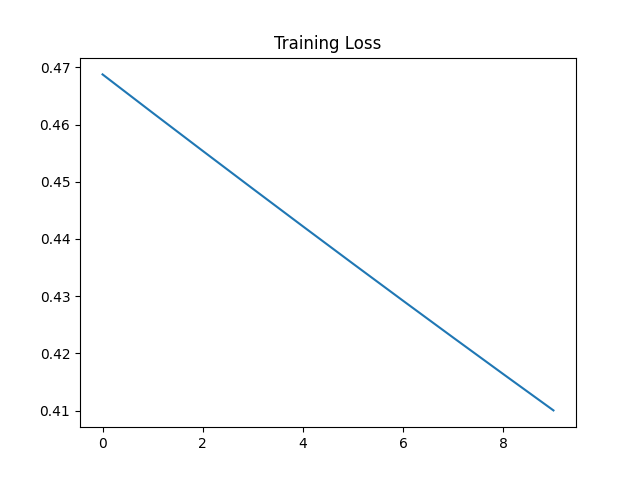
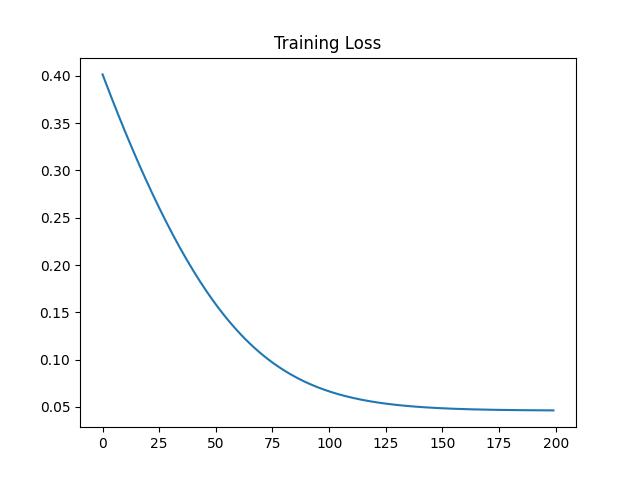
bookeeping works! Test Graphs?

diff --git a/modules/train.py b/modules/train.py
@@ -20,9 +20,6 @@ DEVICE = jax.devices("gpu" if jax.lib.xla_bridge.get_backend().platform == "gpu"
 
 
 def train_model(dataset, params, model, run, path, mngr): 
-
-    print("Before training")
-    print(params)   
     
     epochs = run['epochs']
     batch_size=run['batch_size']
@@ -73,15 +70,10 @@ def train_model(dataset, params, model, run, path, mngr):
         
         loss_train[epoch] = epoch_loss
 
-        if epoch_loss < min_loss:
-            min_loss = epoch_loss
-            ckpt = {'state' : state}
-            mngr.save(epoch, ckpt)
+        
 
-    restored_ckpt = mngr.restore(mngr.latest_step())
-    restored_params = restored_ckpt["state"]["params"]
-    print("Inside train")
-    print(restored_params)
+    ckpt = {'state' : state}
+    mngr.save(epoch, ckpt)
     plt.plot(np.arange(epochs), loss_train)
     plt.title("Training Loss")
     plt.savefig(f"figures/{path}/training_loss.png")

diff --git a/experiment.py b/experiment.py
@@ -50,12 +50,11 @@ def run_experiment(run):
         print("Training from scratch...")
         params, mngr = init_params(model, train_dataset, path)
         
-
+    # Train from starting of params
     train_model(train_dataset, params, model, run, path, mngr)
 
     # Validation
     validate(run, model, path, test_dataset, mngr)
-
 
     record_run_from_file(run, 'run_report.xlsx', 'run_report.txt')
 
@@ -65,7 +64,7 @@ if __name__ == '__main__':
     # Dictionaries and other stuff
     'save_dict': False,
     'dict': 'runs_report.xlsx',
-    'from_scratch' : True,
+    'from_scratch' : False,
     'show_res': False,
 
     # Data preprocessing
@@ -89,7 +88,7 @@ if __name__ == '__main__':
     'initializer': 'xavier',
 
     # Training
-    'epochs': 10,
+    'epochs': 200,
     'batch_size': 3000, # (**)
     'learning_rate': 0.001,
 }

diff --git a/modules/valid.py b/modules/valid.py
@@ -15,8 +15,6 @@ def validate(run, model, path, dataset, mngr):
 
     restored_ckpt = mngr.restore(mngr.latest_step())
     restored_params = restored_ckpt["state"]["params"]
-    print("Inside Valid")
-    print(restored_params)
 
     if run['model']=='node': 
         for (times, x, y, iv), en in zip(dataset, range(num_traj)):
